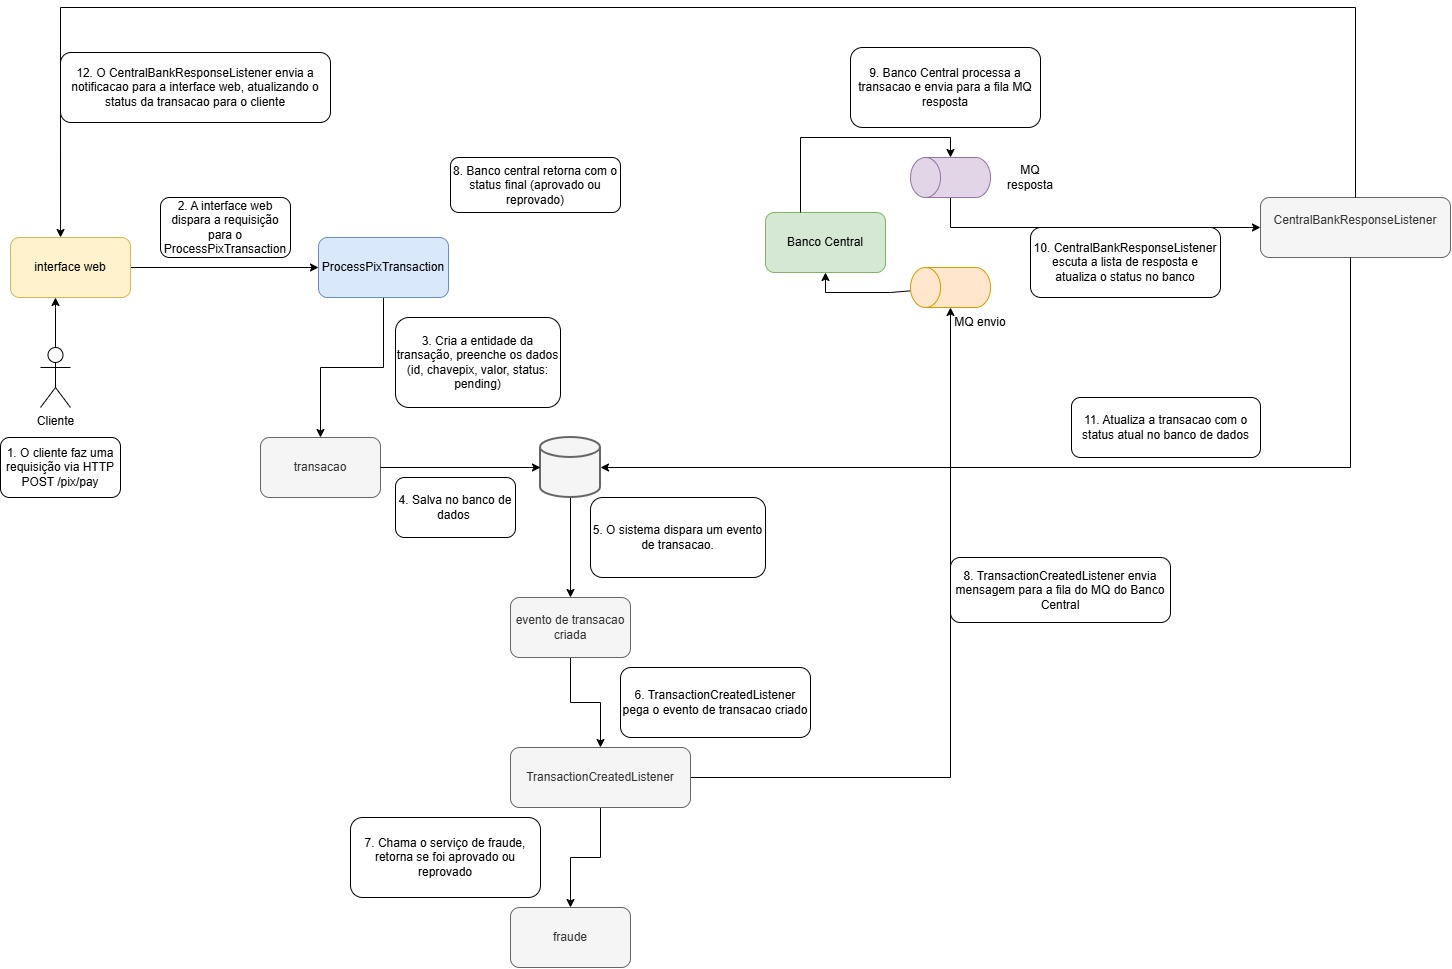
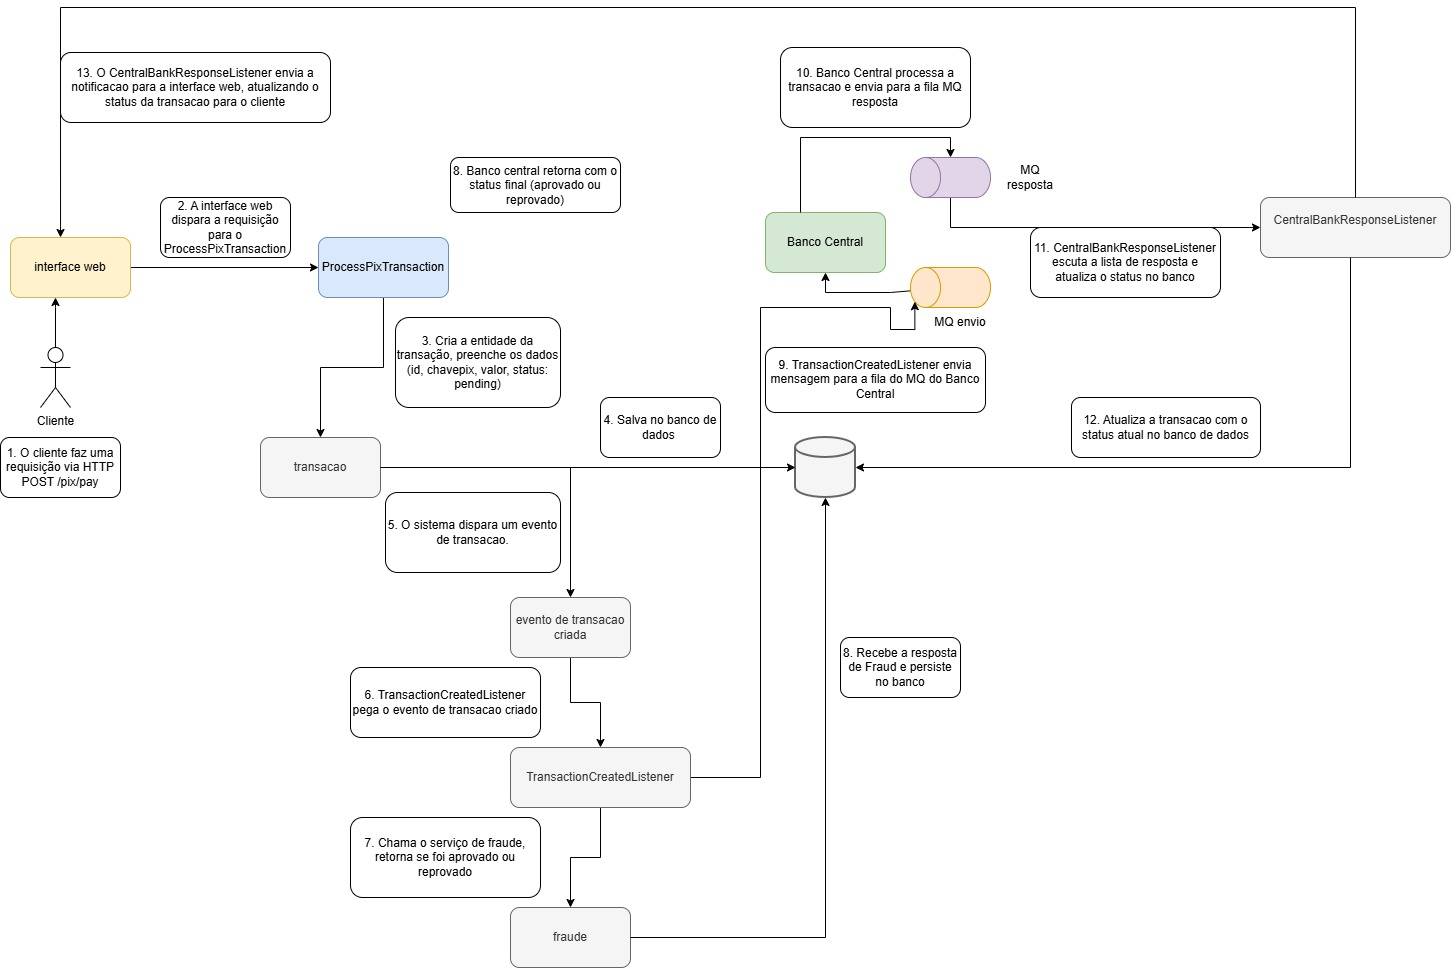
ajustes

diff --git a/src/test/java/com/camilachangperes/process_pix_transaction/event/TransactionCreatedListenerTest.java b/src/test/java/com/camilachangperes/process_pix_transaction/event/TransactionCreatedListenerTest.java
@@ -1,0 +1,104 @@
+package com.camilachangperes.process_pix_transaction.event;
+
+import com.camilachangperes.process_pix_transaction.mock.CentralBankMock;
+import com.camilachangperes.process_pix_transaction.model.StatusTransaction;
+import com.camilachangperes.process_pix_transaction.model.Transaction;
+import com.camilachangperes.process_pix_transaction.repository.TransactionRepository;
+import com.camilachangperes.process_pix_transaction.service.FraudService;
+import org.junit.jupiter.api.Test;
+import org.junit.jupiter.api.extension.ExtendWith;
+import org.mockito.InOrder;
+import org.mockito.InjectMocks;
+import org.mockito.Mock;
+import org.mockito.junit.jupiter.MockitoExtension;
+import org.slf4j.Logger;
+import org.springframework.context.ApplicationEventPublisher;
+
+import java.math.BigDecimal;
+import java.util.Optional;
+import java.util.UUID;
+
+import static org.junit.jupiter.api.Assertions.assertEquals;
+import static org.junit.jupiter.api.Assertions.assertTrue;
+import static org.mockito.ArgumentMatchers.any;
+import static org.mockito.ArgumentMatchers.contains;
+import static org.mockito.Mockito.*;
+
+@ExtendWith(MockitoExtension.class)
+public class TransactionCreatedListenerTest {
+    @Mock
+    private FraudService fraudService;
+
+    @Mock
+    private TransactionRepository transactionRepository;
+
+    @Mock
+    private ApplicationEventPublisher eventPublisher;
+
+    @InjectMocks
+    private TransactionCreatedListener listener;
+
+    @Mock
+    private CentralBankMock centralBankMock;
+
+    @Mock
+    private Logger logger;
+
+    @Test
+    void deveReprovarTransacaoQuandoFraudeDetectada() {
+        // dado um evento inicial
+        UUID id = UUID.randomUUID();
+        TransactionCreatedEvent event = new TransactionCreatedEvent(id, "chave@teste.com", new BigDecimal("100.00"), StatusTransaction.PENDING);
+
+        Transaction transaction = new Transaction();
+        transaction.setId(id);
+        transaction.setPixKey(event.pixKey());
+        transaction.setAmount(event.amount().toString());
+        transaction.setStatus(StatusTransaction.PENDING);
+
+        when(transactionRepository.findById(id)).thenReturn(Optional.of(transaction));
+        when(transactionRepository.save(any(Transaction.class))).thenAnswer(invocation ->{
+            Transaction t = invocation.getArgument(0);
+            t.setId(id);
+            return t;
+        });
+        when(fraudService.isApproved(event.amount())).thenReturn(false);
+
+        // quando o listener processa
+        listener.handleTransactionCreatedEvent(event);
+
+        // então a transação deve ser salva com status REPROVED_FRAUD
+        assertEquals(StatusTransaction.REPROVED_FRAUD, transaction.getStatus());
+
+        verify(transactionRepository).save(transaction);
+        verify(eventPublisher).publishEvent(any(TransactionResponseEvent.class)); // e o evento atualizado deve ser publicado
+    }
+
+
+    @Test
+    void deveAprovarTransacaoQuandoFraudeNaoDetectada() {
+        UUID id = UUID.randomUUID();
+        TransactionCreatedEvent event = new TransactionCreatedEvent(id, "chave@teste.com", new BigDecimal("50.00"), StatusTransaction.PENDING);
+
+        Transaction transaction = new Transaction();
+        transaction.setId(id);
+        transaction.setPixKey(event.pixKey());
+        transaction.setAmount(event.amount().toString());
+        transaction.setStatus(StatusTransaction.PENDING);
+
+        when(transactionRepository.findById(id)).thenReturn(Optional.of(transaction));
+        when(transactionRepository.save(any(Transaction.class))).thenAnswer(invocation ->{
+            Transaction t = invocation.getArgument(0);
+            t.setId(id);
+            return t;
+        });
+        when(fraudService.isApproved(event.amount())).thenReturn(true);
+
+        listener.handleTransactionCreatedEvent(event);
+
+        assertEquals(StatusTransaction.APPROVED, transaction.getStatus());
+        verify(transactionRepository).save(transaction);
+        verify(eventPublisher).publishEvent(any(TransactionEvent.class));
+    }
+}
+

diff --git a/src/main/java/com/camilachangperes/process_pix_transaction/event/CentralBankResponseListener.java b/src/main/java/com/camilachangperes/process_pix_transaction/event/CentralBankResponseListener.java
@@ -42,7 +42,7 @@ public class CentralBankResponseListener {
                 message = "Transaction was rejected. Please check your account status or contact support.";
             } else {
                 clientStatus = StatusTransaction.APPROVED;
-                message = "Transaction was successfully.";
+                message = "Transaction was successful.";
             }
 
             logger.info("Updated transaction {} with status: {}", transaction.getId(), transaction.getStatus());

diff --git a/docs/documentation.md b/docs/documentation.md
@@ -1,0 +1,129 @@
+# Documentação Completa - Projeto Pix Transaction - ProcessPixTransaction
+```
+## 1. Visão Geral
+Este projeto simula o processamento de transações Pix com integração a serviços de fraude e ao Banco Central (mock).  
+O objetivo é validar cenários de aprovação e reprovação e notificar o cliente via WebSocket.
+
+---
+```
+## 2. Fluxo da Transação
+1. Cliente envia requisição `POST /pix/pay`.
+2. Transação criada com status `PENDING`.
+3. Evento `TransactionCreatedEvent` é disparado.
+4. `TransactionCreatedListener` processa:
+   - Chama serviço de fraude (se aplicável).
+   - Atualiza status no banco.
+   - Envia mensagem para fila do Banco Central.
+5. Banco Central (mock) processa e responde.
+6. `CentralBankResponseListener` atualiza status no banco e envia notificação para o cliente via `/topic/pix-status`.
+
+---
+```
+## 3. Regras de Negócio
+- **Conta bloqueada** → `REPROVED_ACCOUNT_BLOCKED` (interno), cliente recebe `REPROVED`.
+- **Saldo insuficiente** → `REPROVED` (interno), cliente recebe `REPROVED`.
+- **Valor acima de 10 mil** → `REPROVED` (interno), cliente recebe `REPROVED`.
+- **Cenário feliz** → `APPROVED`.
+
+---
+```
+## 4. Estrutura Técnica
+- **Linguagem**: Java 21
+- **Framework**: Spring Boot
+- **Eventos**:  
+  - `CentralBankResponseEvent`  
+  - `TransactionCreatedEvent`
+  - `TransactionResponseEvent`
+- **DTOs**:  
+  - `TransactionStatusDTO` (interno)  
+  - `ClientTransactionStatusDTO` (cliente)
+- **Listeners**:  
+  - `TransactionCreatedListener`  
+  - `CentralBankResponseListener`
+- **Service**:  
+  - `PixTransactionService`
+  - `FraudService`
+  - `AccountService`
+- **Mock Banco Central**:  
+  - `CentralBankMockController` (simula processamento e resposta)
+- **WebSocket**:  
+  - Configuração para enviar notificações de status para o cliente.
+- - **Banco de Dados**:  
+  - H2 (em memória) para armazenar transações e status.
+- **Repositórios**:  
+  - `TransactionRepository` (CRUD para transações)
+- **Controllers**:  
+  - `PixTransactionController`
+- **Migrações**:  
+  - `V1__Create_Transaction_Table.sql` (criação da tabela de transações)
+
+---
+
+## 5. API
+### Endpoint: `POST /pay`
+**Request:**
+```json
+{
+  "pixKey": "pixKey1",
+  "amount": 500
+}
+```
+**Response: Approved**
+```json
+{
+  "id": "abc123",
+  "pixKey": "pixKey1",
+  "amount": 500,
+  "status": "APPROVED",
+  "message": "Transaction was successful."
+}
+```
+**Response: Reproved**
+```json
+{
+  "id": "xyz456",
+  "pixKey": "pixKey3",
+  "amount": 10000,
+  "status": "REPROVED",
+  "message": "Transaction was rejected. Please check your account status or contact support."
+}
+```
+**Exemplo de resposta para o cliente**
+```json
+{
+  "id": "xyz456",
+  "pixKey": "pixKey3",
+  "amount": 10000,
+  "message": "Transaction was rejected. Please check your account status or contact support."
+}
+```
+
+---
+## 6. Notificações WebSocket
+- **Endpoint**: `/topic/pix-status`
+- **Payload**:
+```json
+{
+  "id": "abc123",
+  "pixKey": "pixKey1",
+  "amount": 500,
+  "message": "Transaction was successful."
+}
+```
+- **Uso**: O cliente pode se inscrever neste tópico para receber atualizações em tempo real sobre o status de suas transações Pix.
+
+---
+## 7. Testes Unitários e de Integração
+- **Testes Unitários**: Cobrem a lógica de negócios em `PixTransactionService` e `FraudService`.
+- **Testes de Integração**: Validam o fluxo completo da transação, incluindo a interação com o mock do Banco Central e as notificações WebSocket.
+- **Ferramentas**: JUnit 5, Mockito, Spring Boot Test.
+- **Execução**: Os testes podem ser executados usando o comando:
+```bash
+./gradlew test
+```
+
+---
+## 8. Considerações Finais
+Este projeto é uma simulação de um sistema de processamento de transações Pix, focado em a validação de regras de negócio e integração com serviços externos. 
+Ele pode ser expandido para incluir funcionalidades adicionais, como autenticação, suporte a múltiplas chaves Pix, e integração com sistemas de pagamento reais. 
+A estrutura modular e o uso de eventos facilitam a manutenção e a escalabilidade do sistema.

diff --git a/README.md b/README.md
@@ -1,22 +1,14 @@
 # ProcessPixTransaction
 
-Este projeto foi criado a partir de um case técnico para a vaga de Desenvolvedor Backend. 
+## Visão Geral
+Sistema para processamento de transações Pix com validações de fraude, saldo e bloqueio de conta.
 
-O objetivo do projeto é implementar uma API para processar transações Pix, utilizando as melhores práticas de desenvolvimento e arquitetura de software.
-
+## Como Executar
+```bash
+./gradlew bootRun
+```
+## Arquitetura
 ![](img/architecture.jpg)
 
-## Tecnologias utilizadas
-- Java 21
-- Spring Boot
-- Spring Data JPA
-- PostgreSQL Database
-- Kafka
-
-## Funcionalidades
-- Processar transações Pix
-- Validar os dados da transação
-- Persistir as transações no banco de dados
-- Enviar mensagens para um tópico Kafka
-- Expor uma API REST para consulta das transações
-- Implementar testes unitários e de integração
+## Documentação Completa
+[Documentação Completa - Projeto Pix Transaction - ProcessPixTransaction](docs/documentation.md)
